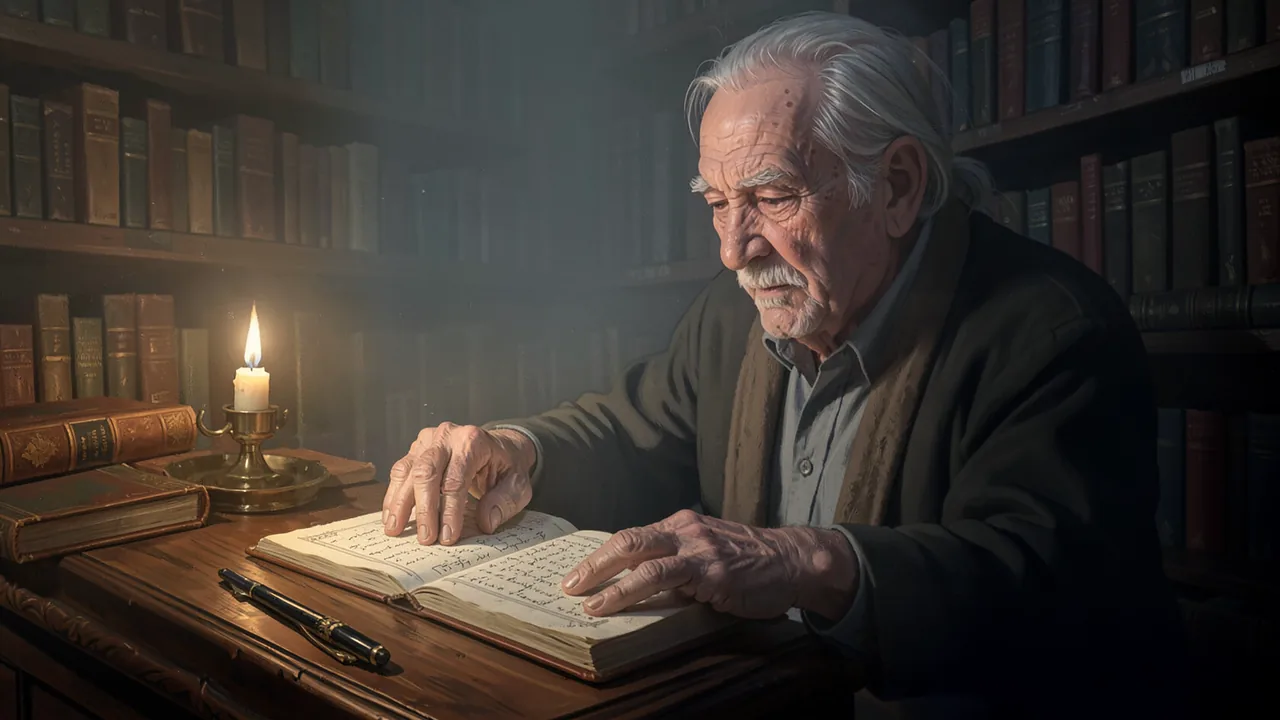
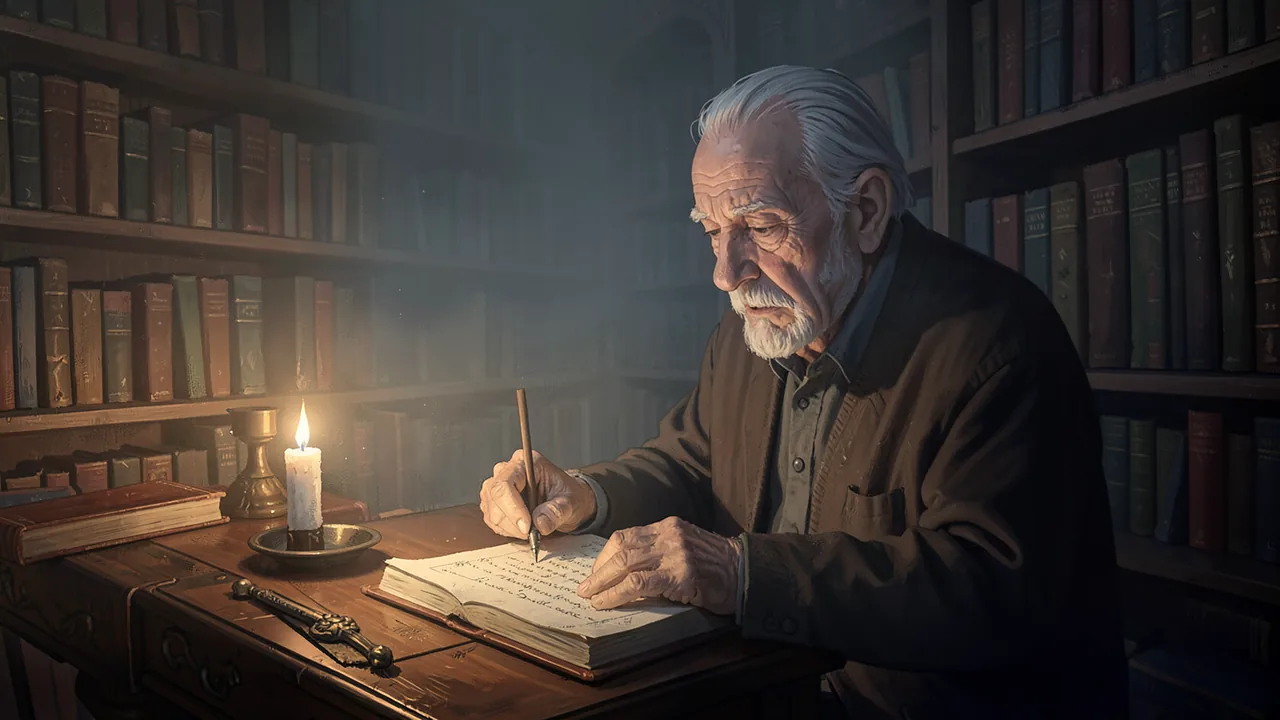
Remove anatomy anchor after a same-seed A/B; refresh outputs
- A/B (seed 7102, 1920x1072, 4 steps): the anchor drew larger hands with
  fused fingers; without it the hands read naturally
- 8 steps drew better hands than 4; CRPF showed no measurable hand effect
  and is now off by default in the engine, schema and UI
- Update compiler, UI notes, prompt-compiler test and README gallery with
  five regenerated outputs
- Add benchmarks/hand_ablation.py and the measurement log entry

diff --git a/web_app/templates/index.html b/web_app/templates/index.html
@@ -65,7 +65,7 @@
             </div>
             <textarea id="promptInput" placeholder="Describe the scene." maxlength="4000"></textarea>
             <div class="field-actions">
-              <button class="btn-text" id="optimizePromptBtn" title="Compile physics, perspective and anatomy into the prompt">
+              <button class="btn-text" id="optimizePromptBtn" title="Compile physics and perspective into the prompt">
                 <svg class="ic" aria-hidden="true"><use href="#i-tune"/></svg><span>Refine</span>
               </button>
               <button class="btn-text" id="quickSampleBtn">
@@ -705,9 +705,8 @@ C_0(∅) = 0 ,  objective: min_S C_T(S)</pre>
             <li><strong>The drawing grid comes from the ceiling, not the tier name.</strong> Peak scales with the grid (fitted here: 602 MB per megapixel over measured 0.46 / 0.92 / 2.06 MP draws), so 1080p is a 1680×944 draw finished by bicubic to 1920×1080 — warm 4.84 GB, cold 4.92 GB, inside the 5.0 GB promise. Uncapped it drew 1920×1072 and measured 5.12 GB; measured structural detail was the same either way (3754 vs 3732).</li>
             <li><strong>On an 8 GB card 2K and 4K are resamples, not more compute.</strong> The same fitted cap gives all three tiers the same 1680×944 grid; the panel prints native → target so the difference is visible instead of advertised.</li>
             <li><strong>One second only at 420p warm.</strong> 640×368 skips decode offload: 3 steps + cache measured ≈1.1 s. Not true at 1080p.</li>
-            <li><strong>Hand quality is the model's own limit.</strong> The anatomy anchor now attaches only to prompts that contain people. The larger base grid is more consistent, but 6 steps do not fix hands.</li>
+            <li><strong>Hands: the anatomy anchor was removed.</strong> Same seed, 1920×1072: the anchor drew larger hands with fused fingers; without it the hands read naturally. 8 steps drew better hands than 4 (36.6 s vs 18 s at this grid); CRPF made no measurable difference on hands and stays off by default.</li>
             <li><strong>1.1 GB only in classic mode.</strong> BF16 + CPU flow produces 720p in 10.4 s; the speed/memory trade is real.</li>
-            <li><strong>More steps are not more quality.</strong> At the same seed, 6 steps drew worse hands than 4; the model is distilled for 4. CRPF is experimental and off by default.</li>
             <li><strong>BF16 full residency does not fit 8 GB.</strong> Weights alone are <span class="mono" id="limitBf16">—</span>, so conversion is mandatory, not optional.</li>
           </ul>
         </section>

diff --git a/web_app/engine.py b/web_app/engine.py
@@ -35,11 +35,6 @@ def save_sidecar(filename: str, data: dict) -> None:
     except OSError as e:
         print(f"[meta] Uyarı: {e}")
 
-ANATOMY_ANCHOR = (
-    "anatomically flawless hands with exactly five distinct slender fingers, authentic non-plastic skin texture with visible organic pores, "
-    "coherent natural facial symmetry, zero distorted digits, zero fused fingers, zero extra limbs, zero floating artifacts"
-)
-
 # Alıntıdaki kelime yoksa (sadece "tabela" gibi bir istek geçiyorsa) kullanılan genel çapa.
 TEXT_ANCHOR = (
     'render the quoted word exactly as written, in clean continuous letterforms with correct spelling, '
@@ -69,23 +64,7 @@ def spelling_anchor(quoted: str) -> str:
         return f"(letters {spelled} in that order, one unbroken word, no hyphen, no space)"
     return f"(letters {spelled} in that order, no hyphen, no extra punctuation)"
 
-# Anatomi çapası yalnızca sahnede insan/vücut geçiyorsa eklenir; manzaraya eklenince
-# model promptta olmayan dev eller üretiyordu.
-_ANATOMY_RE = re.compile(
-    r"(?<![\wçğıöşü\-])("
-    r"el|eli|elin|elinde|eller|elleri|elle|elde|"
-    r"parmak\w*|yüz|portre\w*|"
-    r"hand|hands|finger\w*|portrait\w*|"
-    r"man|woman|women|person|people|human|figure|figures|body|face|"
-    r"insan\w*|adam\w*|kadın\w*|kız\w*|erkek\w*|çocuk\w*|yaşlı\w*|genç\w*|"
-    r"usta\w*|saatçi\w*|anatom\w*|vücut\w*|figür\w*|"
-    r"watchmaker\w*|craftsman\w*|artisan\w*"
-    r")(?![\wçğıöşü\-])",
-    re.IGNORECASE | re.UNICODE,
-)
-
-# "quiet street with no people" gibi olumsuz özneler çapa tetiklemesin: çapa
-# sahnede o şeyin varlığından çıkar, yokluğundan değil.
+# "quiet street with no people" gibi olumsuz özneler orta tespitini tetiklemesin.
 _PERSONS = (r"people|persons?|humans?|figures?|crowds?|pedestrians?|passersby"
             r"|insan(?:lar)?|kişi(?:ler)?|adam(?:lar)?|kadın(?:lar)?|çocuk(?:lar)?")
 _NEGATED_SUBJECT_RE = re.compile(
@@ -193,15 +172,13 @@ def detect_medium(prompt: str) -> str | None:
 
 
 def compile_physically_grounded_prompt(user_prompt: str, style_key: str = "matte_chiaroscuro",
-                                       enable_geo: bool = True, include_anatomy: bool = True) -> str:
+                                       enable_geo: bool = True) -> str:
     """
     Sahne çapalarını kullanıcı isteğiyle çelişmeden ekler.
     enable_geo=False iken yalnızca stil ön/son ekleri uygulanır.
-    include_anatomy=False, anatomisi zaten güçlü modellerde çapayı atlar.
     """
     scene = _NEGATED_SUBJECT_RE.sub(" ", user_prompt)
     wants_text = bool(_QUOTED_WORD_RE.search(user_prompt) or _TEXT_REQUEST_RE.search(user_prompt))
-    needs_anatomy = include_anatomy and bool(_ANATOMY_RE.search(scene))
 
     guards = []
     if enable_geo:
@@ -227,9 +204,6 @@ def compile_physically_grounded_prompt(user_prompt: str, style_key: str = "matte
         if match:
             inline_anchor = spelling_anchor(match.group(0))
         clauses.append(TEXT_TAIL if inline_anchor else TEXT_ANCHOR)
-    if needs_anatomy:
-        clauses.append("natural human leg-to-torso proportions")
-        clauses.append(ANATOMY_ANCHOR)
 
     preset = STYLE_PRESETS.get(style_key, STYLE_PRESETS["matte_chiaroscuro"])
     # Kullanıcı promptu kendi ortamını adlandırdıysa ("editorial photograph") çelişen stil
@@ -378,7 +352,7 @@ class GroselEngine:
 
     def generate(self, prompt: str, style_key: str = "matte_chiaroscuro", 
                  aspect_ratio: str = "16:9", quality: str = "1080p", 
-                 seed: int | None = None, enable_crpf: bool = True, step_callback = None,
+                 seed: int | None = None, enable_crpf: bool = False, step_callback = None,
                  enable_geo: bool = True, steps_override=None):
         if seed is None or seed < 0:
             seed = torch.randint(0, 2**32 - 1, (1,)).item()

diff --git a/benchmarks/hand_ablation.py b/benchmarks/hand_ablation.py
@@ -1,0 +1,74 @@
+"""El ablasyonu: CRPF, adim ve isgridin ayni seed'deki etkisi.
+
+    python benchmarks/hand_ablation.py [prompt-index]
+
+Cikti: %TEMP%/grosel_hand_ab/ altinda tam kare + el kirpimi.
+"""
+import json
+import os
+import sys
+import time
+
+sys.path.insert(0, os.path.dirname(os.path.dirname(os.path.abspath(__file__))))
+
+import torch
+from PIL import Image
+
+from web_app.engine import compile_physically_grounded_prompt
+from web_app.fast_engine import FastKleinEngine
+from web_app.resolutions import detail_target, get_dimensions
+
+PROMPTS = [
+    ("scholar", 7102, "Karanlık antik kütüphanede mum ışığında el yazması inceleyen yaşlı bilgin, deri ciltli kitaplar, tozlu hava"),
+    ("station", 7105, "Terk edilmiş tren istasyonunda bankta oturan genç kadın, sis, sarı istasyon lambası, ıslak beton"),
+]
+OUT = os.path.join(os.environ.get("TEMP", "/tmp"), "grosel_hand_ab")
+
+VARIANTS = [
+    ("1_4step", False, 4, True),
+    ("2_4step_crpf", True, 4, True),
+    ("3_8step", False, 8, True),
+    ("4_4step_base", False, 4, False),
+]
+
+
+def main():
+    idx = int(sys.argv[1]) if len(sys.argv) > 1 else 0
+    name, seed, prompt = PROMPTS[idx]
+    os.makedirs(OUT, exist_ok=True)
+    eng = FastKleinEngine()
+    base_w, base_h, target_w, target_h, _, _ = get_dimensions("1080p", "16:9")
+    rows = []
+    for tag, crpf, steps, detail in VARIANTS:
+        compiled = compile_physically_grounded_prompt(prompt, "matte_chiaroscuro", True)
+        torch.cuda.reset_peak_memory_stats()
+        t0 = time.time()
+        emb, _ = eng.prompt_embeds(compiled)
+        encode_peak = torch.cuda.max_memory_allocated() / 1024 ** 2
+        torch.cuda.reset_peak_memory_stats()
+        if detail:
+            size = detail_target(base_w, base_h, target_w, target_h, max_mp=2.2)
+            gen_w, gen_h = size or (base_w, base_h)
+        else:
+            gen_w, gen_h = base_w, base_h
+        image, _, _ = eng._generate_steps(emb, gen_w, gen_h, steps, seed, enable_crpf=crpf)
+        if (target_w, target_h) != (gen_w, gen_h):
+            growing = target_w > gen_w or target_h > gen_h
+            kernel = Image.Resampling.BICUBIC if growing else Image.Resampling.LANCZOS
+            image = image.resize((target_w, target_h), kernel)
+        total = time.time() - t0
+        peak = max(encode_peak, eng._step_peak_mb, eng._decode_peak_mb)
+        stem = os.path.join(OUT, f"{name}_{tag}")
+        image.save(stem + ".png")
+        crop = image.crop((int(target_w * 0.10), int(target_h * 0.50),
+                           int(target_w * 0.80), target_h))
+        crop.save(stem + "_hands.png")
+        row = {"variant": tag, "seed": seed, "steps": steps, "native": f"{gen_w}x{gen_h}",
+               "seconds": round(total, 2), "peak_mb": round(peak, 1)}
+        rows.append(row)
+        print(json.dumps(row), flush=True)
+    print(json.dumps({"out": OUT, "rows": rows}, ensure_ascii=False))
+
+
+if __name__ == "__main__":
+    main()

diff --git a/web_app/fast_engine.py b/web_app/fast_engine.py
@@ -273,7 +273,7 @@ class FastKleinEngine:
         return emb, False
 
     def _generate_steps(self, prompt_embeds, width, height, steps, seed, step_callback=None,
-                        enable_crpf=True, sigmas=None, output_type="pil", capture=False):
+                        enable_crpf=False, sigmas=None, output_type="pil", capture=False):
         from web_app.engine import crpf_regularize_latents
 
         generator = torch.Generator("cpu").manual_seed(seed)
@@ -418,7 +418,7 @@ class FastKleinEngine:
         return out.images[0], end - t0, marks
 
     def generate(self, prompt, style_key="matte_chiaroscuro", aspect_ratio="16:9", quality="1080p",
-                 seed=None, enable_crpf=True, step_callback=None, status_callback=None,
+                 seed=None, enable_crpf=False, step_callback=None, status_callback=None,
                  enable_geo=True, steps_override=None, refine_steps=0, refine_sigma=0.15,
                  sigmas=None, detail_pass=True, detail_max_mp=None):
         from web_app.engine import (

diff --git a/tests/test_prompt_compiler.py b/tests/test_prompt_compiler.py
@@ -61,10 +61,11 @@ def test_sahne_olmayan_sey_uydurulmaz():
     assert "fireplace" in compile("A cozy living room with a fireplace at dusk.", "pure_raw")
 
 
-def test_gercek_insan_sahnesinde_anatomi_gelir():
-    compiled = compile("Portrait of a young woman, hands resting on a table.", "pure_raw")
-    assert "five distinct slender fingers" in compiled
-    assert "natural human leg-to-torso proportions" in compiled
+def test_gercek_insan_sahnesine_anatomi_capasi_eklenmez():
+    # A/B (seed 7102, 1920x1072): çapa ellerin büyümesine ve parmakların
+    # birleşmesine yol açtı; kaldırıldı.
+    prompt = "Portrait of a young woman, hands resting on a table."
+    assert compile(prompt, "pure_raw") == prompt
 
 
 def test_geo_kapatilincak_yalniz_stil_eklenir():

diff --git a/web_app/schemas.py b/web_app/schemas.py
@@ -34,7 +34,7 @@ class GenerateRequest(BaseModel):
     style: str = Field(default="matte_chiaroscuro", max_length=64)
     aspect_ratio: Literal["16:9", "1:1", "9:16", "4:3", "3:4", "2:3", "21:9"] = "16:9"
     quality: Literal["420p", "720p", "1080p", "2K", "4K"] = "1080p"
-    enable_crpf: bool = True
+    enable_crpf: bool = False
     enable_geo: bool = True
     steps: int = Field(default=0, ge=0, le=48)
     refine_steps: int = Field(default=0, ge=0, le=4)

diff --git a/web_app/qwen_engine.py b/web_app/qwen_engine.py
@@ -445,7 +445,7 @@ class QwenStreamEngine:
             seed = torch.randint(0, 2 ** 32 - 1, (1,)).item()
 
         final_prompt = compile_physically_grounded_prompt(
-            prompt, style_key, enable_geo, include_anatomy=False,
+            prompt, style_key, enable_geo,
         )
         base_w, base_h, target_w, target_h, steps = qwen_dimensions(
             quality, aspect_ratio, steps_override,

diff --git a/README.md b/README.md
@@ -4,16 +4,14 @@
 
 <table>
 <tr>
-<td width="50%"><img src="docs/gallery/fireplace-4k.webp" alt="Loş odada şömine başında oturan kadın"><br><sub>4K · 3840×2160 · 20 adım<br>“Loş karanlık odada masaya yaslanmış zarif Asyatik kız”</sub></td>
-<td width="50%"><img src="docs/gallery/pier-1080p.webp" alt="Sisli iskelede balıkçı"><br><sub>1080p · soğuk · 27.3 s · 4.92 GB<br>“A lone fisherman on a wooden pier at foggy dawn”</sub></td>
+<td width="33%"><img src="docs/gallery/scholar-1080p.webp" alt="Mum ışığında el yazması okuyan bilgin"><br><sub>1080p · 4 adım · 13.9 s · 4.92 GB · seed 7102<br>“Karanlık antik kütüphanede mum ışığında el yazması inceleyen yaşlı bilgin”</sub></td>
+<td width="33%"><img src="docs/gallery/pier-1080p.webp" alt="Sisli iskelede balıkçı"><br><sub>1080p · 4 adım · 13.9 s · 4.92 GB · seed 4242<br>“A lone fisherman on a wooden pier at foggy dawn”</sub></td>
+<td width="33%"><img src="docs/gallery/lake-1080p.webp" alt="Sisli göl kıyısında balıkçı"><br><sub>1080p · 4 adım · 13.9 s · 4.92 GB · seed 7104<br>“Sisli bir göl kıyısında ahşap iskelede duran balıkçı”</sub></td>
 </tr>
 <tr>
-<td><img src="docs/gallery/scholar-1080p.webp" alt="Mum ışığında el yazması okuyan bilgin"><br><sub>1080p · sıcak · 11.1 s · 4.84 GB<br>“Karanlık antik kütüphanede mum ışığında el yazması inceleyen yaşlı bilgin”</sub></td>
-<td><img src="docs/gallery/lake-1080p.webp" alt="Sisli göl kıyısında balıkçı"><br><sub>1080p · 12.7 s · 4.92 GB<br>“Sisli bir göl kıyısında ahşap iskelede duran balıkçı”</sub></td>
-</tr>
-<tr>
-<td><img src="docs/gallery/station-720p.webp" alt="Terk edilmiş tren istasyonunda kadın"><br><sub>720p · soğuk · 4.6 s · 4.92 GB<br>“Terk edilmiş tren istasyonunda bankta oturan genç kadın, sis”</sub></td>
-<td><img src="docs/gallery/station-warm-720p.webp" alt="Terk edilmiş tren istasyonunda kadın, farklı seed"><br><sub>720p · sıcak · 3.1 s · 4.18 GB<br>Aynı sahne, farklı seed; sıcak koşu</sub></td>
+<td><img src="docs/gallery/station-1080p.webp" alt="Terk edilmiş tren istasyonunda kadın"><br><sub>1080p · 4 adım · 13.9 s · 4.92 GB · seed 7105<br>“Terk edilmiş tren istasyonunda bankta oturan genç kadın, sis”</sub></td>
+<td><img src="docs/gallery/station-warm-1080p.webp" alt="Terk edilmiş tren istasyonunda kadın, farklı seed"><br><sub>1080p · 4 adım · 12.4 s · 4.84 GB · seed 7106<br>Aynı sahne, farklı seed; sıcak koşu</sub></td>
+<td><sub>Beşi de 1680×944 çizim ve 4 adım. Görseller anatomi çapası kaldırıldıktan sonra üretildi; aynı seed'de eller belirgin düzeldi.</sub></td>
 </tr>
 </table>
 
@@ -70,6 +68,8 @@ grosel serve
 - 30 s hedefi yalnız 720p/16'da; 1080p/40 Qwen yaklaşık 132 s.
 - 5.00 GB tavan kartın sınırında; 6 GB rahat.
 - 2K/4K tiling doğrulanmadı. NF4, FP8'e göre kompozisyonu değiştiriyor.
+- Anatomi çapası A/B ile kaldırıldı (seed 7102): çapa ellerin büyümesine ve parmakların birleşmesine yol açıyordu. 8 adım 4'ten daha iyi; CRPF'in ellerde ölçülebilir etkisi yok, varsayılan kapalı.
+- Metin çapaları kompozisyonu garanti etmez: şömine promptunda aynı seed'de iki ateş ocağı çizildi.
 - KÇM kalite ekseni CLIP prompt uyumu; LPIPS ve insan A/B yapılmadı.
 - Enerji ayrı ölçülmedi; süre düşünce enerji düşer, bu bir türetim.
 
